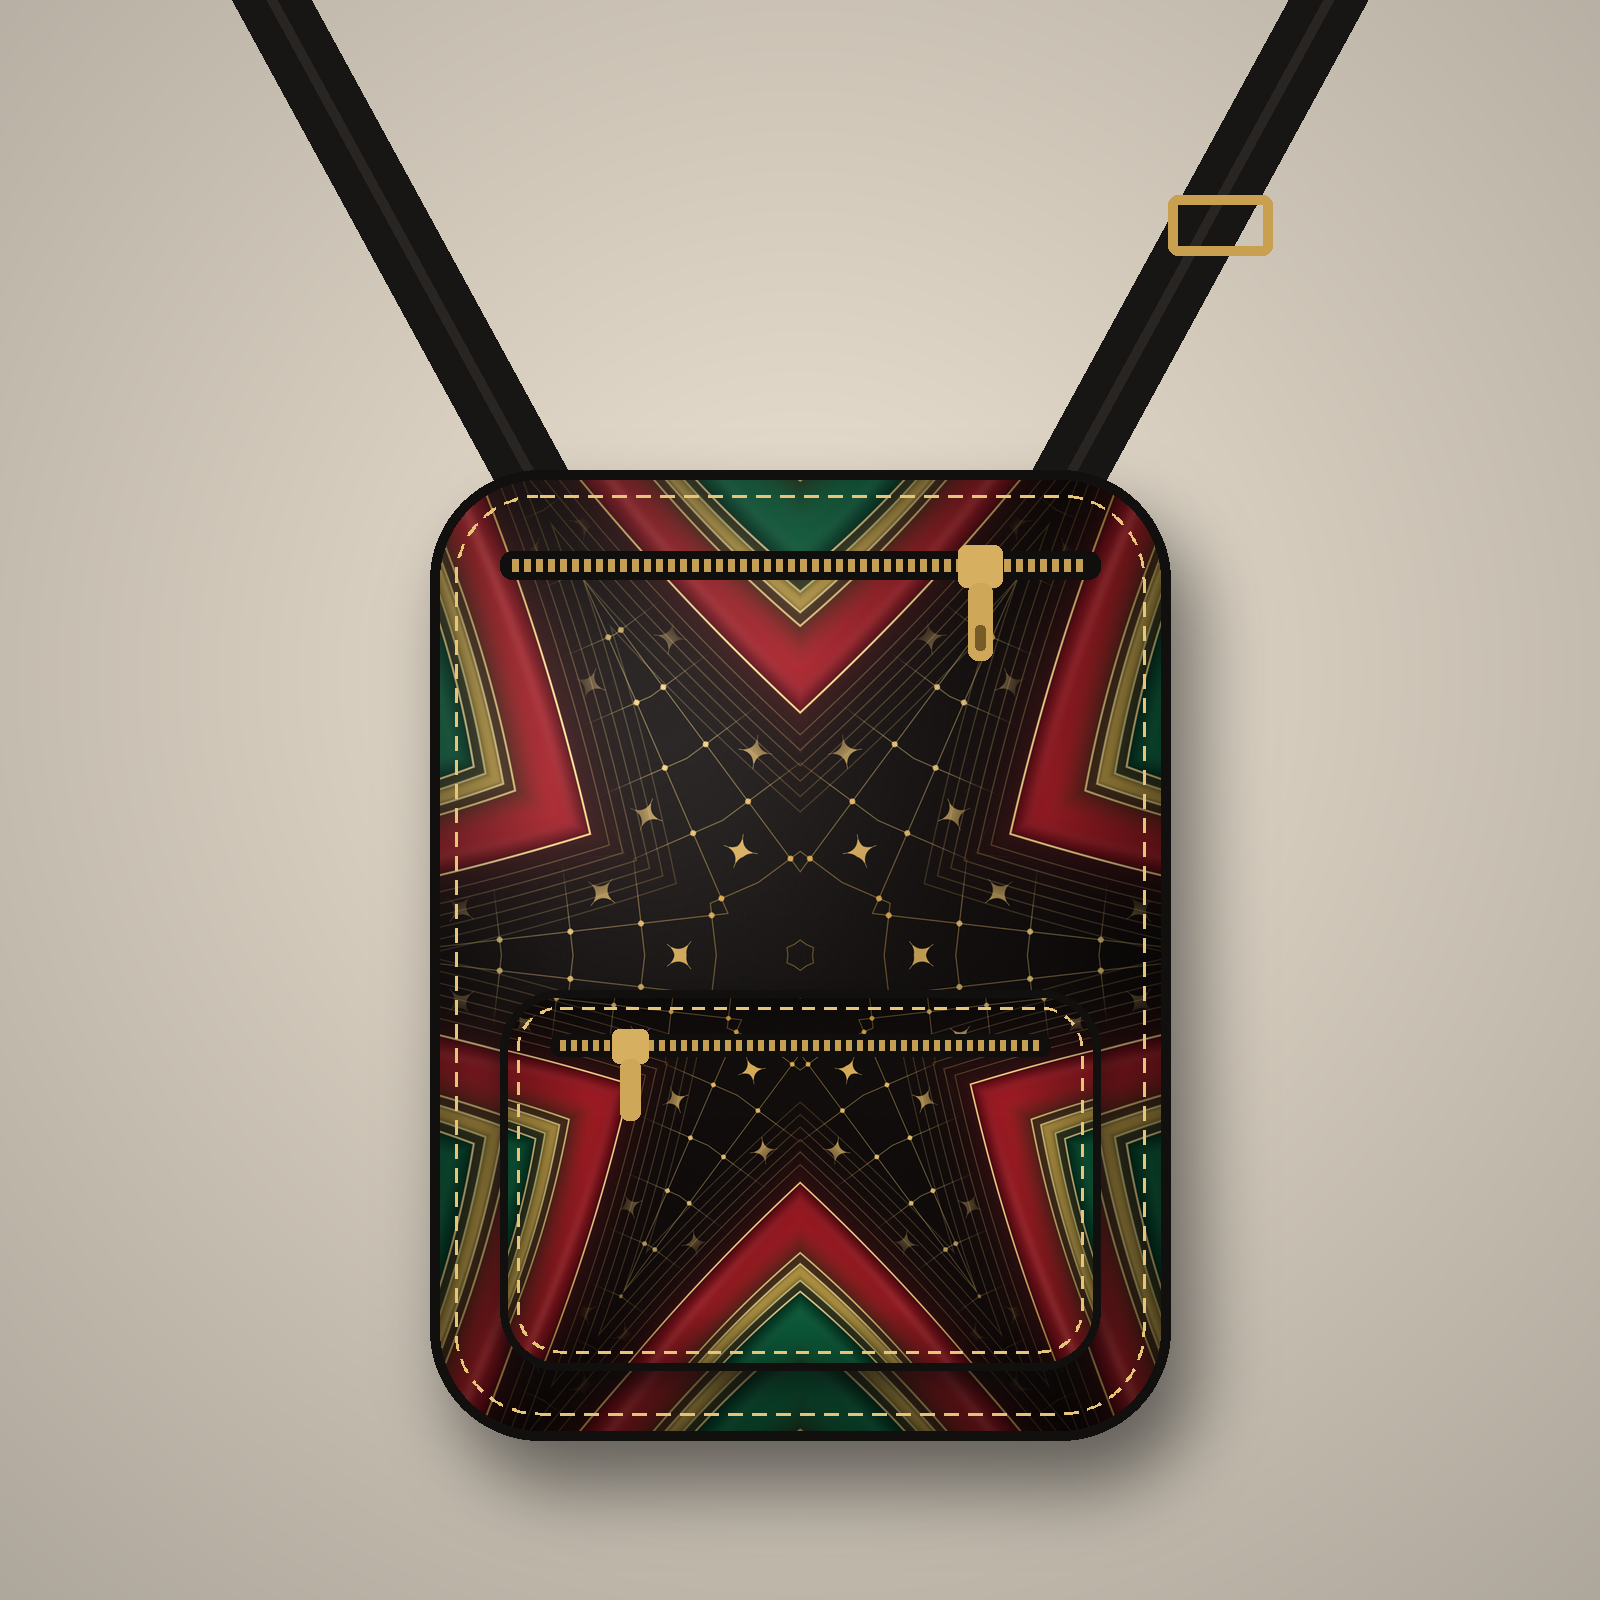
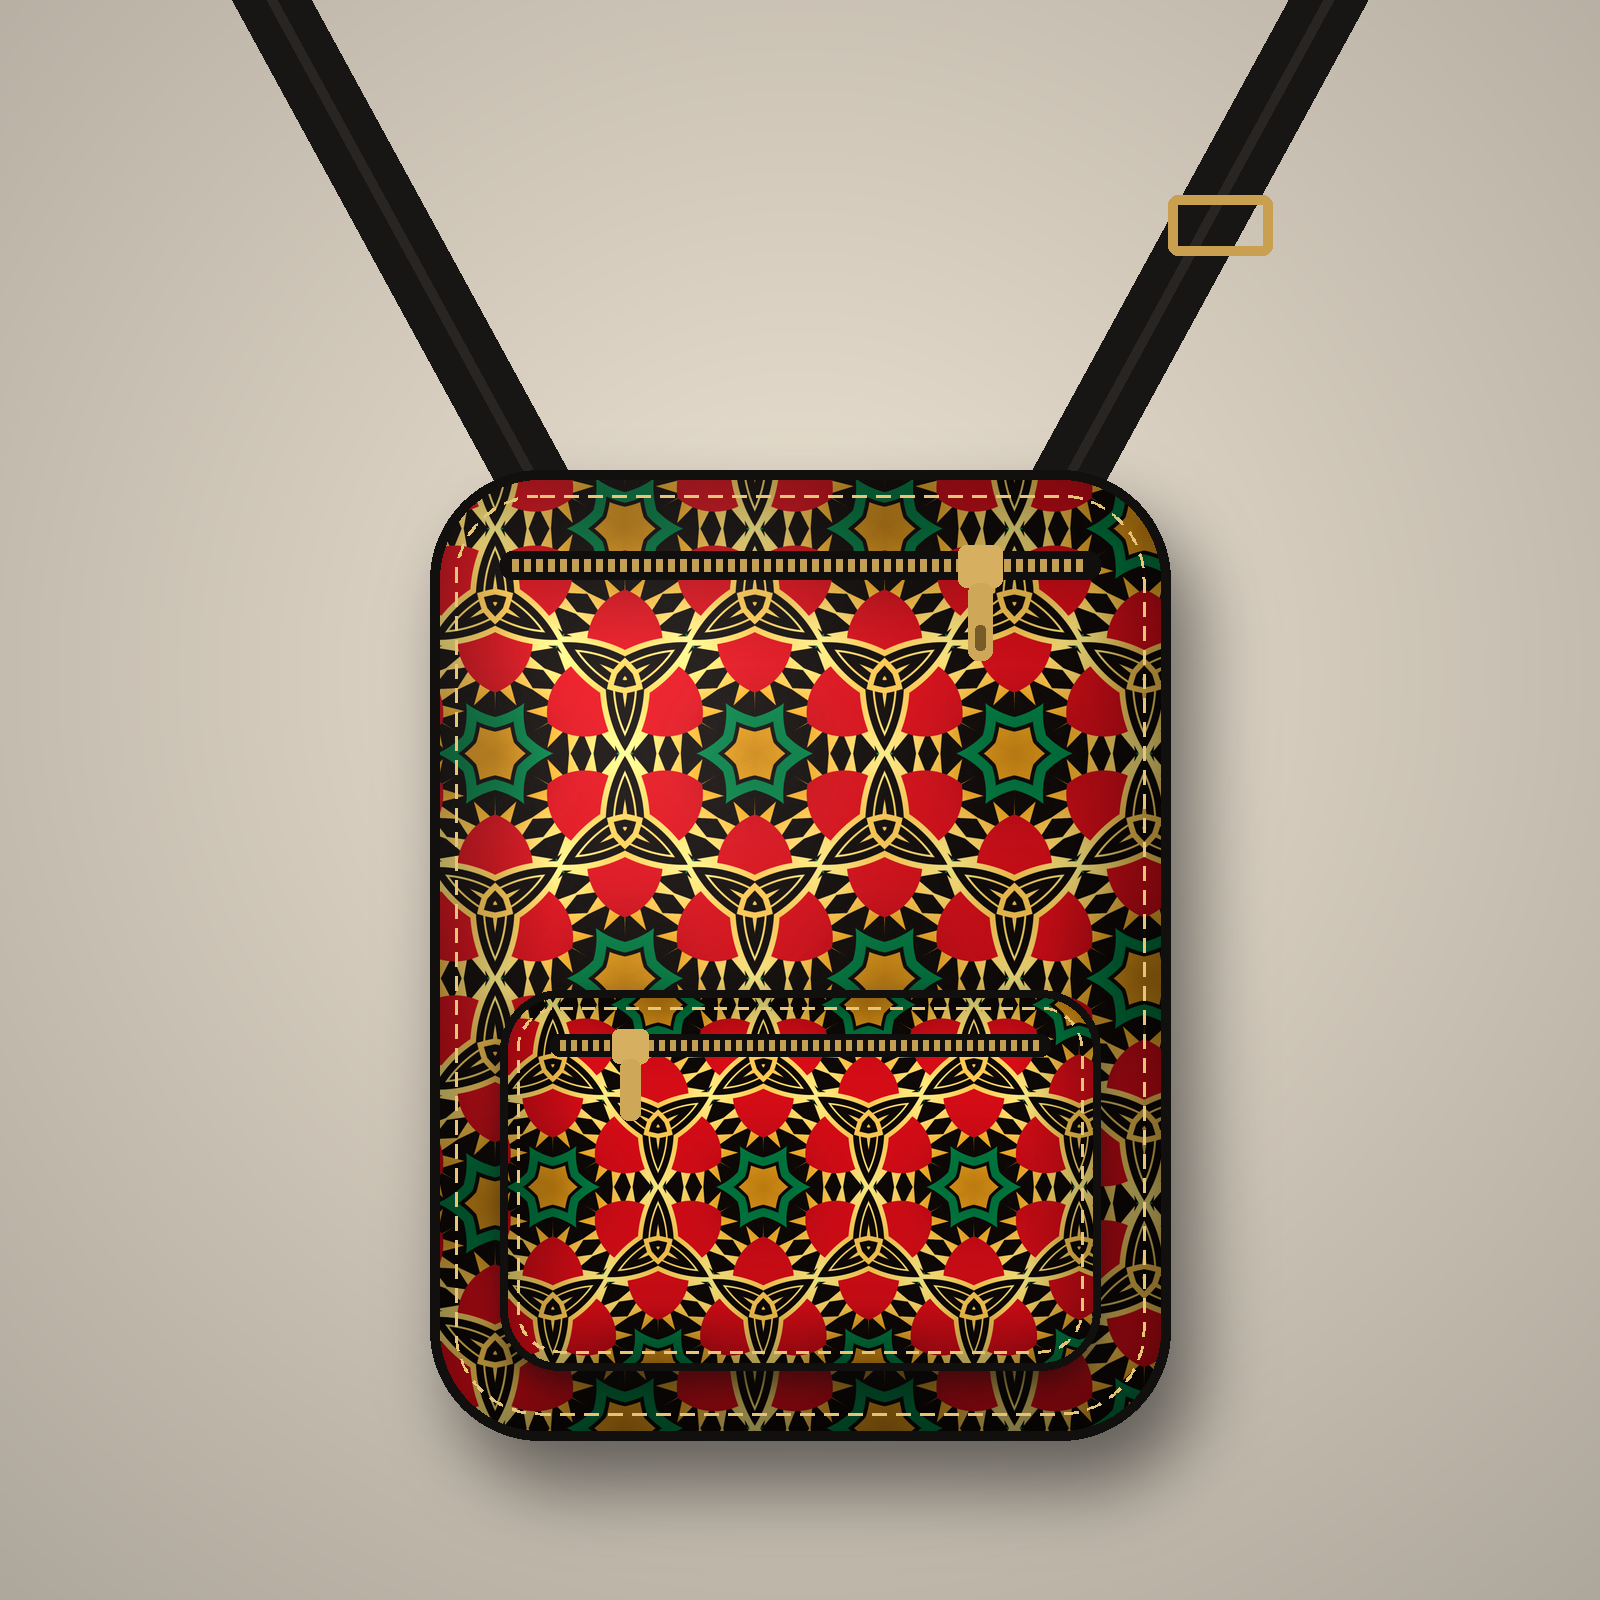
Add dot-painting mandala design and repeating kaleidoscope tile
Dense layered 3D dots in red, green and gold on black form scalloped
petal bands from a glowing center to every corner. Also adds a
seamless hexagonal kaleidoscope tile version.

Claude-Session: https://claude.ai/code/session_01Mt1Tg14bgvqpkRSeX5tTDt

Changed region(s): [[0.25, 0.2812, 0.75, 0.9062]]

diff --git a/heritage-crossbody-bag/make_mandala_design.py b/heritage-crossbody-bag/make_mandala_design.py
@@ -1,0 +1,118 @@
+"""Dot-painting mandala (kaleidoscope) placement design for the crossbody bag.
+
+Usage: python3 make_mandala_design.py <out_dir>
+Densely packed layered 3D dots in the African heritage palette (red, black,
+green, gold) form scalloped petal bands radiating from a glowing center,
+reaching every corner, with a soft luminous glow.
+
+Outputs (300 DPI, each panel = bag size + 0.5" bleed on every side):
+  mandala-front_2010x2610.png
+  mandala-back_2010x2610.png    (same mandala with the colors swapped around)
+  mandala-pocket_2010x1500.png  (lower part of the front, so the pocket lines up)
+  mandala-preview-mockup.png    product-style preview (not a print file)
+"""
+import math
+import sys
+from pathlib import Path
+
+import numpy as np
+from PIL import Image, ImageDraw, ImageFilter
+
+from make_circle_pattern import mockup
+
+DPI = 300
+SS = 2
+TAU = 2 * math.pi
+
+BG = (12, 9, 9)
+DEEP_RED = (110, 8, 20)
+RED = (200, 24, 40)
+RED_L = (244, 84, 70)
+AMBER = (236, 140, 28)
+GOLD = (246, 192, 60)
+GOLD_L = (255, 232, 150)
+DEEP_GREEN = (0, 66, 38)
+GREEN = (12, 140, 80)
+GREEN_L = (70, 206, 126)
+CREAM = (252, 244, 222)
+WHITE = (255, 252, 240)
+
+# dot "recipes": outer -> inner layers (dot-in-dot painting)
+RECIPES = {
+    "gold": [AMBER, GOLD, GOLD_L],
+    "red": [DEEP_RED, RED, RED_L],
+    "green": [DEEP_GREEN, GREEN, GREEN_L],
+    "redgold": [RED, GOLD, GOLD_L],
+    "greengold": [GREEN, GOLD, GOLD_L],
+    "goldred": [GOLD, RED, RED_L],
+    "goldgreen": [GOLD, GREEN, GREEN_L],
+    "redgreen": [DEEP_RED, GREEN, GREEN_L],
+    "greenred": [DEEP_GREEN, RED, RED_L],
+}
+
+
+def dot(d, x, y, r, kind):
+    """A painted 3D dot: layered rings plus a small highlight."""
+    layers = RECIPES[kind]
+    n = len(layers)
+    for i, c in enumerate(layers):
+        rr = r * (1 - i * 0.30)
+        d.ellipse((x - rr, y - rr, x + rr, y + rr), fill=c)
+    hr = r * 0.22
+    hx, hy = x - r * 0.28, y - r * 0.30
+    d.ellipse((hx - hr, hy - hr, hx + hr, hy + hr), fill=WHITE)
+
+
+def compose(W, H, bands, petals=12, center=(0.5, 0.42), twist=0.0):
+    """Dense dot mandala: rings of touching dots out to the corners.
+    Petals come from a scalloped band field, so every dot belongs to a petal
+    band whose color cycles through `bands`."""
+    S = SS
+    im = Image.new("RGB", (W * S, H * S), BG)
+    d = ImageDraw.Draw(im)
+    cx, cy = W * S * center[0], H * S * center[1]
+    rmax = max(math.hypot(x - cx, y - cy) for x in (0, W * S) for y in (0, H * S)) + 40 * S
+    unit = W * S * 0.5
+    r = 0.0
+    dot(d, cx, cy, unit * 0.06, "redgold")
+    r = unit * 0.06
+    ring_i = 0
+    while r < rmax:
+        size = unit * (0.014 + 0.022 * min(r / unit, 1.6) ** 0.8)
+        r += size * 1.05
+        n = max(6, int(TAU * r / (size * 2.15)))
+        n -= n % petals          # keep the count a multiple of the petal number (symmetry)
+        n = max(n, petals)
+        phase = (TAU / n) * 0.5 * (ring_i % 2) + twist
+        for k in range(n):
+            ang = phase + TAU * k / n
+            # scalloped petal field: radius shifted by angle, then cut into bands
+            scal = abs(math.cos(petals * ang / 2))
+            f = r / unit - 0.28 * scal ** 1.5
+            band = int(math.floor(f * 4.2))
+            kind = bands[band % len(bands)]
+            # dots swell in the middle of each petal
+            sz = size * (0.82 + 0.25 * (1 - scal))
+            dot(d, cx + r * math.cos(ang), cy + r * math.sin(ang), sz, kind)
+        r += size * 1.05
+        ring_i += 1
+    im = im.resize((W, H), Image.LANCZOS)
+    # luminous glow: screen a blurred copy over the art
+    a = np.asarray(im, np.float32) / 255
+    g = np.asarray(im.filter(ImageFilter.GaussianBlur(16)), np.float32) / 255 * 0.5
+    out = 1 - (1 - a) * (1 - g)
+    return Image.fromarray((np.clip(out, 0, 1) * 255).astype(np.uint8))
+
+
+if __name__ == "__main__":
+    out = Path(sys.argv[1])
+    out.mkdir(parents=True, exist_ok=True)
+    W, H = 2010, 2610
+    front = compose(W, H, ["gold", "red", "greengold", "green", "goldred", "red", "goldgreen", "green"])
+    front.save(out / "mandala-front_2010x2610.png", dpi=(DPI, DPI), optimize=True)
+    back = compose(W, H, ["gold", "green", "redgold", "red", "goldgreen", "green", "goldred", "red"], twist=0.13)
+    back.save(out / "mandala-back_2010x2610.png", dpi=(DPI, DPI), optimize=True)
+    pocket = front.crop((0, H - 1500, W, H))
+    pocket.save(out / "mandala-pocket_2010x1500.png", dpi=(DPI, DPI), optimize=True)
+    mockup(front, front=front, pocket_art=pocket).save(out / "mandala-preview-mockup.png")
+    print("done")

diff --git a/heritage-crossbody-bag/make_kaleido_tile.py b/heritage-crossbody-bag/make_kaleido_tile.py
@@ -1,0 +1,100 @@
+"""Kaleidoscope tessellation (seamless) for the crossbody bag.
+
+Usage: python3 make_kaleido_tile.py <out_dir>
+Like looking through a real kaleidoscope: art is mirrored into 12-fold
+rosettes that sit on a hexagonal grid and fit together like stained glass.
+The tile is 1200 x 2078 px (4" wide, two rosettes), which repeats seamlessly.
+Outputs (300 DPI): kaleido-tile_1200x2078.png, kaleido-pattern-sheet_6000.png,
+kaleido-front/back_2010x2610.png, kaleido-pocket_2010x1500.png, kaleido-preview-mockup.png
+"""
+import math
+import sys
+from pathlib import Path
+
+import numpy as np
+from PIL import Image, ImageEnhance
+
+DPI = 300
+SQ3 = math.sqrt(3)
+
+
+def sample(src, x, y):
+    """Bilinear sample, mirroring at the source edges so nothing jumps."""
+    h, w = src.shape[:2]
+
+    def refl(c, n):
+        c = np.mod(c, 2 * (n - 1))
+        return np.where(c > n - 1, 2 * (n - 1) - c, c)
+
+    x, y = refl(x, w), refl(y, h)
+    x0, y0 = np.floor(x).astype(int), np.floor(y).astype(int)
+    x1, y1 = np.minimum(x0 + 1, w - 1), np.minimum(y0 + 1, h - 1)
+    fx, fy = (x - x0)[..., None], (y - y0)[..., None]
+    a = src[y0, x0] * (1 - fx) + src[y0, x1] * fx
+    b = src[y1, x0] * (1 - fx) + src[y1, x1] * fx
+    return a * (1 - fy) + b * fy
+
+
+def hex_fold(W, H, a):
+    """For every pixel: distance and folded angle (0..30 deg) to the nearest
+    hexagonal-grid center. Grid spacing a; the tile W x H holds whole cells."""
+    yy, xx = np.mgrid[0:H, 0:W].astype(np.float32)
+    sy = H / (a * SQ3)                       # whole rows of the grid fit the tile height
+    best = np.full((H, W), 1e18, np.float32)
+    bdx = np.zeros((H, W), np.float32)
+    bdy = np.zeros((H, W), np.float32)
+    rows = round(H / (a * SQ3 / 2))
+    row_h = H / rows
+    for j in range(-1, rows + 2):
+        cy = j * row_h
+        off = a / 2 if j % 2 else 0.0
+        for i in range(-1, round(W / a) + 2):
+            cx = i * a + off
+            dx, dy = xx - cx, (yy - cy) * (a * SQ3 / 2) / row_h
+            dd = dx * dx + dy * dy
+            m = dd < best
+            best = np.where(m, dd, best)
+            bdx = np.where(m, dx, bdx)
+            bdy = np.where(m, dy, bdy)
+    r = np.sqrt(best)
+    t = np.mod(np.arctan2(bdy, bdx), math.pi / 3)
+    t = np.where(t > math.pi / 6, math.pi / 3 - t, t)
+    return r, t
+
+
+def kaleido_tile(src, W=1200, a=600, origin=(800, 800), turn=0.5, scale=1.0, boost=1.25):
+    H = round(W * SQ3)
+    r, t = hex_fold(W, H, a)
+    rr = r * scale
+    out = sample(src, origin[0] + rr * np.cos(t + turn), origin[1] + rr * np.sin(t + turn))
+    img = Image.fromarray(np.clip(out, 0, 255).astype(np.uint8))
+    img = ImageEnhance.Color(img).enhance(boost)
+    return ImageEnhance.Contrast(img).enhance(1.08)
+
+
+def sheet(t, w, h):
+    s = Image.new("RGB", (w, h))
+    for x in range(0, w, t.size[0]):
+        for y in range(0, h, t.size[1]):
+            s.paste(t, (x, y))
+    return s
+
+
+if __name__ == "__main__":
+    from make_circle_pattern import mockup
+
+    out = Path(sys.argv[1])
+    src = np.asarray(Image.open(out / "fan-pattern-tile_2400.png").convert("RGB"), np.float32)
+    t = kaleido_tile(src, W=1200, a=600, origin=(800, 800), turn=0.5, scale=1.0)
+    t.save(out / "kaleido-tile_1200x2078.png", dpi=(DPI, DPI), optimize=True)
+    big = sheet(t, 6000, 6000)
+    big.save(out / "kaleido-pattern-sheet_6000.png", dpi=(DPI, DPI), optimize=True)
+    # ready-to-upload panels (bag size + 0.5" bleed); the back starts at another spot
+    front = big.crop((300, 200, 300 + 2010, 200 + 2610))
+    back = big.crop((900, 720, 900 + 2010, 720 + 2610))
+    pocket = front.crop((0, 2610 - 1500, 2010, 2610))
+    front.save(out / "kaleido-front_2010x2610.png", dpi=(DPI, DPI), optimize=True)
+    back.save(out / "kaleido-back_2010x2610.png", dpi=(DPI, DPI), optimize=True)
+    pocket.save(out / "kaleido-pocket_2010x1500.png", dpi=(DPI, DPI), optimize=True)
+    mockup(front, front=front, pocket_art=pocket).save(out / "kaleido-preview-mockup.png")
+    print("done")
